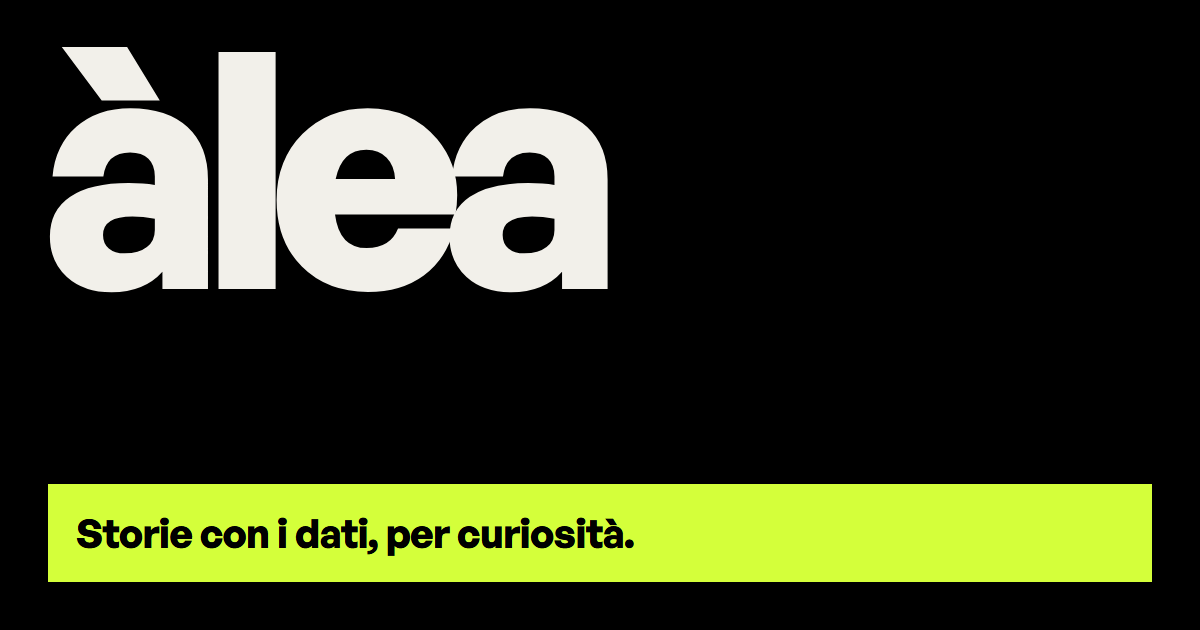
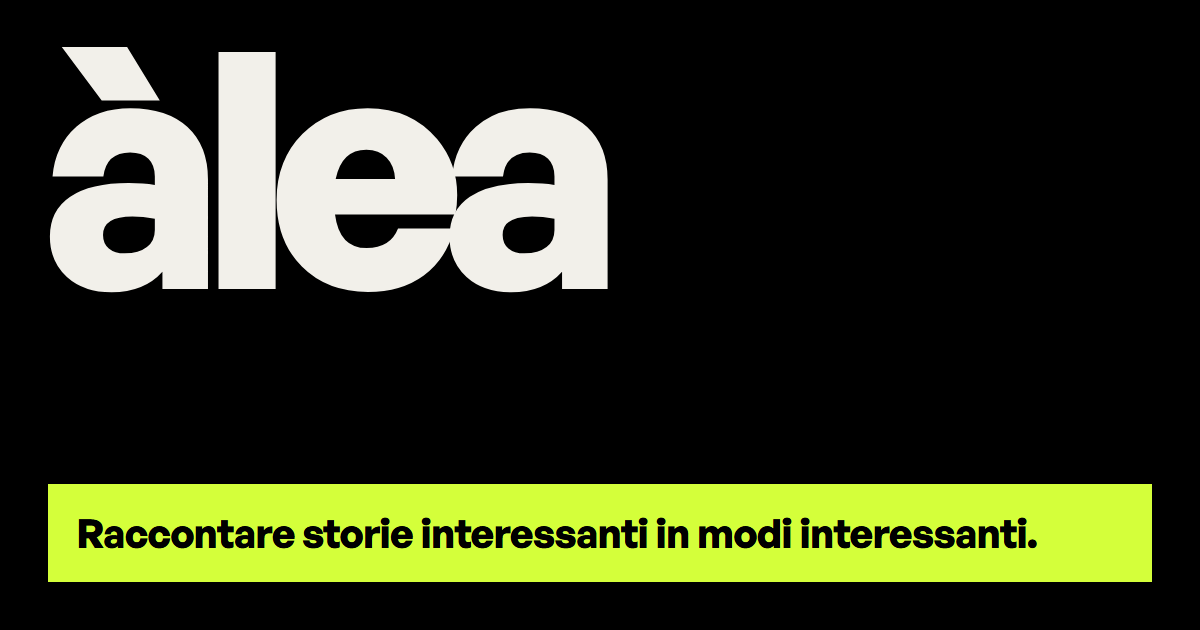
nuova descrizione e about: raccontare storie interessanti in modi interessanti; sitemap (articoli compresi) e robots.txt

Changed region(s): [[0.0617, 0.8143, 0.8633, 0.8746]]

diff --git a/src/config.js b/src/config.js
@@ -2,7 +2,7 @@
 export const SITO = {
   nome: "àlea",
   indirizzo: "https://alea.news",
-  descrizione: "Storie con i dati, per curiosità: domande serie e meno serie, con dati aperti e codice pubblico.",
+  descrizione: "Raccontare storie interessanti in modi interessanti.",
   autore: "David Ruffini",
   sitoAutore: "https://www.davidruffini.com",
   email: "ciao@alea.news",

diff --git a/scripts/og/alea.html b/scripts/og/alea.html
@@ -12,6 +12,6 @@
 </head>
 <body>
   <div class="logo">àlea</div>
-  <div class="barra">Storie con i dati, per curiosità.</div>
+  <div class="barra">Raccontare storie interessanti in modi interessanti.</div>
 </body>
 </html>
